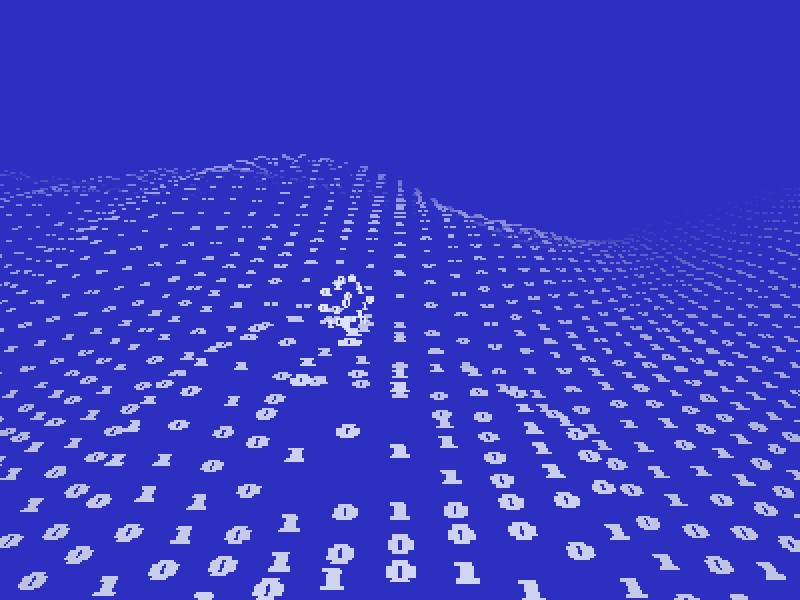
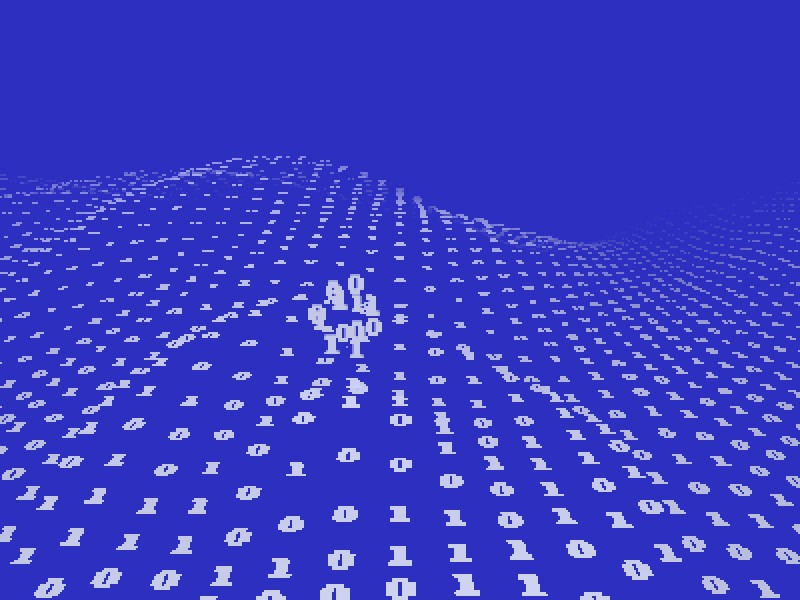
Implemented the following changes:
* In addition to cut, copy we need "delete"
* Right now, "log in" doesn't do anything. I think that the "Log In" button should spawn the first character.
* Move the log-in button to the bottom left corner.
* Liquid Feedback:
   * The ones and zeros in the droplet look brighter than the ones in the ocean, this also causes things to look different. They should be the same color.
   * I think the scale of the ones and zeros are too small and adding to the density effect. Either increase the font size and reduce density or grow the ball.
* Head Throw Feeback:
   * Right now, holding 1/2 and hovering around the mouse doesn't cause the target to move. Let's change this. If the mouse is not moving, keep the WASD positioning and anchoring. If the mouse is moving while 1/2/ is held lets let the destination follow the mouse instead of requireing the user to click down. Ask questions if this doesn't make sense.

Co-authored by Cluade

Changed region(s): [[0.0, 0.24, 1.0, 1.0], [0.8438, 0.99, 0.875, 1.0], [0.4062, 0.84, 0.4375, 0.87]]

diff --git a/public/games/aero/index.html b/public/games/aero/index.html
@@ -38,7 +38,7 @@ body { background: var(--ground); color: var(--ink); font-family: var(--sans); o
 
 .marquee { position: absolute; display: none; border: .16em dashed #d4e0ff; background: rgba(90,130,255,.14); box-sizing: border-box; }
 .word { position: absolute; right: 4%; bottom: 4%; font: 400 2.6em var(--sans); color: #6f6d78; letter-spacing: .01em; }
-#begin { position: absolute; left: 50%; bottom: 14%; transform: translateX(-50%); font: 700 1em var(--pixel); color: #1c1b22; background: #ecebf2; border: 0; padding: .6em 1.4em; cursor: pointer; box-shadow: 0 0 0 2px #1c1b22, 0 0 0 4px #ecebf2; }
+#begin { position: absolute; left: 4%; bottom: 5%; font: 700 1em var(--pixel); color: #1c1b22; background: #ecebf2; border: 0; padding: .6em 1.4em; cursor: pointer; box-shadow: 0 0 0 2px #1c1b22, 0 0 0 4px #ecebf2; }
 .stage.story #begin { display: none; }
 #copyOv, #titleOv { cursor: crosshair; touch-action: none; }
 .ctx.vista { position: absolute; display: none; z-index: 5; width: auto; left: 0; top: 0; padding: .25em; gap: .1em; }
@@ -143,6 +143,7 @@ body { background: var(--ground); color: var(--ink); font-family: var(--sans); o
       <div class="ctx vista" id="ctx">
         <button type="button" data-a="copy"><svg viewBox="0 0 16 16" aria-hidden="true"><path d="M2 1.5h9.5L14.5 4.5V14.5H2z" fill="#5b79c9" stroke="#1d2f66"/><rect x="4.5" y="1.5" width="6" height="4" fill="#dfe7fb" stroke="#1d2f66"/><rect x="8.3" y="2.3" width="1.4" height="2.4" fill="#1d2f66"/><rect x="4" y="8.5" width="8.5" height="6" rx=".5" fill="#f4f6fd" stroke="#1d2f66"/><path d="M5.5 10.5h5.5M5.5 12.3h5.5" stroke="#9aa9d4"/></svg>Copy<kbd>Ctrl C</kbd></button>
         <button type="button" data-a="cut"><svg viewBox="0 0 16 16" aria-hidden="true"><path d="M5.2 9.6 11.8 1.5M10.8 9.6 4.2 1.5" stroke="#44506f" stroke-width="1.6" stroke-linecap="round"/><circle cx="4.6" cy="12" r="2.4" fill="none" stroke="#c0392b" stroke-width="1.6"/><circle cx="11.4" cy="12" r="2.4" fill="none" stroke="#c0392b" stroke-width="1.6"/><circle cx="8" cy="7.2" r=".8" fill="#44506f"/></svg>Cut<kbd>Ctrl X</kbd></button>
+        <button type="button" data-a="delete"><svg viewBox="0 0 16 16" aria-hidden="true"><path d="M3.5 4.5h9l-.8 10H4.3z" fill="#dfe7fb" stroke="#1d2f66"/><path d="M2.5 4.5h11M6 2.5h4v2H6z" fill="none" stroke="#1d2f66"/><path d="M6.4 6.8v5.6M8 6.8v5.6M9.6 6.8v5.6" stroke="#c0392b"/></svg>Delete<kbd>Del</kbd></button>
       </div>
       <button id="begin" type="button">Log in</button>
     </section>
@@ -520,6 +521,17 @@ frame.addEventListener('pointerdown', e => {
 frame.addEventListener('pointermove', e => { Object.assign(AIM, framePx(e)); if (AIM.down) e.stopPropagation(); }, true);
 frame.addEventListener('pointerup', e => { if (!AIM.down) return; Object.assign(AIM, framePx(e)); AIM.down = false; AIM.up = { x: AIM.x, y: AIM.y }; e.stopPropagation(); }, true);
 frame.addEventListener('pointercancel', () => { AIM.down = false; }, true);
+function aimTracker() {
+  let follow = false, ax = 0, ay = 0, wasd = false;
+  return {
+    reset() { follow = false; ax = AIM.x; ay = AIM.y; wasd = !!(KEYS.f || KEYS.b || KEYS.l || KEYS.r); },
+    tick() {
+      const w = !!(KEYS.f || KEYS.b || KEYS.l || KEYS.r); if (w && !wasd) follow = false; wasd = w;
+      if (Math.hypot(AIM.x - ax, AIM.y - ay) > 6) { follow = true; ax = AIM.x; ay = AIM.y; }
+    },
+    get mouse() { return AIM.down || follow; },
+  };
+}
 const aimRay = (cam, p) => { const r = new THREE.Raycaster(); r.setFromCamera(new THREE.Vector2(p.x / frame.clientWidth * 2 - 1, 1 - p.y / frame.clientHeight * 2), cam); return r.ray; };
 const AIM_OK = new THREE.Color(0x7ff0ff), AIM_NO = new THREE.Color(0xff6b9a), AIM_DOTS = 34;
 function aimGuide() {
@@ -634,6 +646,7 @@ function headTravel(R, o) {
 }
 function walker(R, clamp, cam) {
   const vel = new THREE.Vector3(); let facing = R.root.rotation.y, base = null, h = 0, vy = 0, held = false, prev1 = false, prev2 = false, aiming = null;
+  const track = aimTracker();
   const pick = p => {
     const ray = aimRay(cam, p), k = (base - ray.origin.y) / ray.direction.y; if (!(k > 0)) return null;
     const q = ray.origin.clone().addScaledVector(ray.direction, k); clamp(q); q.y = base; return q;
@@ -647,16 +660,19 @@ function walker(R, clamp, cam) {
   });
   const step = (dt, t) => {
     if (base === null) base = R.root.position.y;
-    if (!aiming && !travel.active()) { if (KEYS.roll && !prev1) aiming = 'roll'; else if (KEYS.throw && !prev2) aiming = 'throw'; }
+    if (!aiming && !travel.active()) { if (KEYS.roll && !prev1) aiming = 'roll'; else if (KEYS.throw && !prev2) aiming = 'throw'; if (aiming) track.reset(); }
     prev1 = !!KEYS.roll; prev2 = !!KEYS.throw;
+    if (aiming) track.tick();
     if (aiming && h === 0 && (AIM.up || (!KEYS[aiming] && !AIM.down))) {
-      const k = aiming, dest = AIM.up ? pick(AIM.up) : null; aiming = null; travel.unaim();
+      const k = aiming, dest = AIM.up ? pick(AIM.up) : track.mouse ? pick(AIM) : null; aiming = null; travel.unaim();
       if (dest) { facing = Math.atan2(dest.x - R.root.position.x, dest.z - R.root.position.z); R.root.rotation.y = facing; }
       travel.start(k, facing, dest);
     }
     if (travel.active()) { travel.update(dt); vel.set(0, 0, 0); return; }
     const ix = (KEYS.r ? 1 : 0) - (KEYS.l ? 1 : 0), iz = (KEYS.b ? 1 : 0) - (KEYS.f ? 1 : 0), sp = KEYS.run ? 6.2 : 3.4;
     const w = new THREE.Vector3(ix, 0, iz); if (w.lengthSq()) { w.normalize(); facing = Math.atan2(w.x, w.z); }
+    const aimAt = aiming && track.mouse ? pick(AIM) : null;
+    if (aimAt && !w.lengthSq()) facing = Math.atan2(aimAt.x - R.root.position.x, aimAt.z - R.root.position.z);
     vel.x += (w.x * sp - vel.x) * Math.min(1, dt * 10); vel.z += (w.z * sp - vel.z) * Math.min(1, dt * 10);
     const p = R.root.position; p.x += vel.x * dt; p.z += vel.z * dt; clamp(p);
     let dr = facing - R.root.rotation.y; dr = Math.atan2(Math.sin(dr), Math.cos(dr)); R.root.rotation.y += dr * Math.min(1, dt * 12);
@@ -664,7 +680,7 @@ function walker(R, clamp, cam) {
     held = !!KEYS.j; vy -= 22 * dt; h = Math.max(0, h + vy * dt); if (h === 0 && vy < 0) vy = 0;
     R.root.position.y = base + h;
     animateRunner(R, dt, Math.hypot(vel.x, vel.z), h === 0, t);
-    if (aiming) { R.root.updateMatrixWorld(true); const d = AIM.down ? pick(AIM) : null; if (AIM.down && !d) travel.unaim(); else travel.aim(aiming, facing, t, d); }
+    if (aiming) { R.root.updateMatrixWorld(true); if (track.mouse && !aimAt) travel.unaim(); else travel.aim(aiming, facing, t, aimAt); }
   };
   step.height = () => h;
   step.travelling = () => travel.active();
@@ -716,12 +732,19 @@ function buildCopy() {
   const key = new THREE.DirectionalLight(0xffffff, 1.2); key.position.set(3, 6, 5); key.castShadow = true; key.shadow.mapSize.set(1024, 1024);
   Object.assign(key.shadow.camera, { left: -8, right: 8, top: 8, bottom: -8 }); scene.add(key);
   const floor = new THREE.Mesh(new THREE.PlaneGeometry(40, 40), new THREE.ShadowMaterial({ opacity: .35 })); floor.rotation.x = -Math.PI / 2; floor.receiveShadow = true; scene.add(floor);
-  const lead = makeRunner(); scene.add(lead.root);
-  const crew = [lead], MAXCREW = 16;
+  let lead = null, crew = [];
+  const MAXCREW = 16;
   const clampP = p => { p.x = Math.max(-4.4, Math.min(4.4, p.x)); p.z = Math.max(-2.4, Math.min(2.2, p.z)); };
-  lead.walk = walker(lead, clampP, cam);
-  const mq = $('#marquee'), ctx = $('#ctx'), ov = $('#copyOv');
+  const mq = $('#marquee'), ctx = $('#ctx'), ov = $('#copyOv'), login = $('#begin');
   const A = -1.6, B = 1.9, LOOP = 8.6;
+  let demoT0 = 0;
+  const syncLogin = () => { login.style.display = crew.length ? 'none' : ''; };
+  function spawn() {
+    if (crew.length) return;
+    const r = makeRunner(); r.root.position.set(A, 0, 0); r.root.rotation.y = .2; r.walk = walker(r, clampP, cam); r.flick = now + .5;
+    scene.add(r.root); crew.push(r); lead = r; mode = 'demo'; demoT0 = now; S = null; syncLogin(); chime(660);
+  }
+  login.onclick = () => { if (active) spawn(); };
   const V = (x, y, z) => new THREE.Vector3(x, y, z);
   function box(x) { const a = toFrame(V(x - .66, 2.5, 0), cam), b = toFrame(V(x + .66, -.08, 0), cam); return { x: a.x, y: a.y, w: b.x - a.x, h: b.y - a.y }; }
   const ease = u => u < 0 ? 0 : u > 1 ? 1 : u * u * (3 - 2 * u);
@@ -731,7 +754,7 @@ function buildCopy() {
 
   const hand = new THREE.Vector3(); let S = null, dragging = false;
   function demo(dt, t) {
-    const R = lead, u = t % LOOP, b0 = box(A), dx = box(B).x - b0.x;
+    const R = lead, u = (t - demoT0) % LOOP, b0 = box(A), dx = box(B).x - b0.x;
     R.root.position.set(u >= 4.7 ? B : A, 0, 0); R.root.rotation.y = .2;
     animateRunner(R, dt, 0, true, t);
     let arm = null, crouch = 0;
@@ -751,11 +774,11 @@ function buildCopy() {
     if (u >= 3.2 && u < 3.6) vis = Math.floor(u * 16) % 2 === 0;
     else if (u >= 3.6 && u < 4.7) { vis = false; ox = dx * ease((u - 3.6) / 1.1); }
     else if (u >= 4.7 && u < 5.1) { ox = dx; vis = u > 4.95 || Math.floor(u * 20) % 2 === 0; }
-    R.root.visible = vis;
+    R.root.visible = vis && !(R.flick && t < R.flick && Math.floor(t * 20) % 2);
     if (on) rect(x0 + ox, y0, x1 + ox, y1); else hideRect();
   }
   function resetPose(r) { r.hips.position.y = .98; r.spine.rotation.x = 0; r.shL.rotation.z = -.1; r.shR.rotation.z = .1; r.root.visible = true; }
-  function toPlay() { if (mode === 'play') return; mode = 'play'; resetPose(lead); hideRect(); }
+  function toPlay() { if (mode === 'play') return; mode = 'play'; if (lead) resetPose(lead); hideRect(); }
 
   const ray = new THREE.Raycaster(), floorPlane = new THREE.Plane(V(0, 1, 0), 0);
   const px = e => { const r = frame.getBoundingClientRect(); return { x: (e.clientX - r.left) * frame.clientWidth / r.width, y: (e.clientY - r.top) * frame.clientHeight / r.height }; };
@@ -798,6 +821,7 @@ function buildCopy() {
   }
   function begin(kind) {
     if (!sel.length || carry) return; ctx.classList.remove('on');
+    if (kind === 'delete') { sel.forEach(r => { r.flick = now + .35; r.hideAfter = true; r.dying = true; }); sel = []; clearSel(); chime(300); return; }
     const src = sel.reduce((a, r) => a.add(r.root.position), V(0, 0, 0)).multiplyScalar(1 / sel.length);
     carry = { kind, w: selRect.x1 - selRect.x0, h: selRect.y1 - selRect.y0, from: V(src.x, 0, src.z) };
     if (kind === 'cut') sel.forEach(r => { r.flick = now + .35; r.hideAfter = true; });
@@ -837,6 +861,7 @@ function buildCopy() {
   addEventListener('keydown', e => {
     if (!active) return;
     if ((e.metaKey || e.ctrlKey) && (e.code === 'KeyC' || e.code === 'KeyX') && sel.length && !carry) { begin(e.code === 'KeyC' ? 'copy' : 'cut'); e.preventDefault(); }
+    else if ((e.code === 'Delete' || e.code === 'Backspace') && sel.length && !carry) { begin('delete'); e.preventDefault(); }
     else if (e.code === 'Escape' && (sel.length || carry || drag)) { drag = null; clearSel(); e.preventDefault(); }
     else if (KEYMAP[e.code]) toPlay();
   });
@@ -844,20 +869,21 @@ function buildCopy() {
   return { scene, cam,
     update(dt, t) {
       now = t;
-      if (mode === 'demo') { demo(dt, t); return; }
+      if (mode === 'demo') { if (lead) demo(dt, t); return; }
       for (const r of crew) r.walk(dt, t + (r.seed || 0));
-      if (drag && mouse && lead.root.visible) {
+      if (drag && mouse && lead && lead.root.visible) {
         lead.root.rotation.y += (0 - lead.root.rotation.y) * Math.min(1, dt * 10);
         lead.root.updateMatrixWorld(true);
         const c = toFrame(lead.chest.getWorldPosition(V(0, 0, 0)), cam), right = mouse.x > c.x;
         const sh = right ? lead.shR : lead.shL, el = right ? lead.elR : lead.elL, s = toFrame(sh.getWorldPosition(V(0, 0, 0)), cam);
         sh.rotation.z = Math.atan2(mouse.x - s.x, mouse.y - s.y); sh.rotation.x = 0; el.rotation.x = 0;
         (right ? lead.shL : lead.shR).rotation.z = right ? -.1 : .1;
-      } else { lead.shL.rotation.z = -.1; lead.shR.rotation.z = .1; }
+      } else if (lead) { lead.shL.rotation.z = -.1; lead.shR.rotation.z = .1; }
       for (const r of crew) {
         if (r.flick && t < r.flick) r.root.visible = Math.floor(t * 20) % 2 === 0;
-        else if (r.flick) { r.flick = 0; r.root.visible = !r.hideAfter; }
+        else if (r.flick) { r.flick = 0; r.root.visible = !r.hideAfter; if (r.dying) { r.walk.cancel(); if (r.head.parent !== r.root) r.head.parent.remove(r.head); scene.remove(r.root); r.dead = true; } }
       }
+      if (crew.some(r => r.dead)) { crew = crew.filter(r => !r.dead); lead = crew[0] || null; syncLogin(); }
       if (carry) {
         placeGhosts();
         const pulse = .8 + Math.sin(t * 6) * .2; GHOST.lineSkin.color.setRGB(.9 * pulse, .92 * pulse, pulse); GHOST.line.color.copy(GHOST.lineSkin.color);
@@ -867,7 +893,8 @@ function buildCopy() {
         const a = around(sel.filter(r => r.root.visible)); if (a) { selRect = a; rect(a.x0, a.y0, a.x1, a.y1); if (ctx.classList.contains('on')) placeMenu(); }
       }
     },
-    enter() { active = true; }, leave() { active = false; drag = null; clearSel(); } };
+    login: spawn,
+    enter() { active = true; syncLogin(); if (stage.classList.contains('story')) spawn(); }, leave() { active = false; drag = null; clearSel(); } };
 }
 
 function buildTitle() {
@@ -922,23 +949,31 @@ function buildTitle() {
   const hit = e => { const r = frame.getBoundingClientRect(); ray.setFromCamera(new THREE.Vector2((e.clientX - r.left) / r.width * 2 - 1, 1 - (e.clientY - r.top) / r.height * 2), cam); return ray.ray.intersectPlane(plane, new THREE.Vector3()); };
   let target = null, ri = 0, bursts = [], blobs = [];
   const seaY = (x, z, t) => Math.sin(x * .21 + t * .8) * 1.1 + Math.sin(z * .17 - t * .65) * 1.3 + Math.sin((x - z) * .09 + t * .45) * 1.9 + Math.sin(x * .5 + z * .4 + t * 1.3) * .35;
-  const glyphMat = [0, 1].map(k => { const tx = tex.clone(); tx.needsUpdate = true; tx.repeat.set(.5, 1); tx.offset.set(k * .5, 0); return new THREE.SpriteMaterial({ map: tx, color: lin(0xdfe4ff), toneMapped: false, alphaTest: .5 }); });
+  const glyphTex = [0, 1].map(k => { const tx = tex.clone(); tx.needsUpdate = true; tx.repeat.set(.5, 1); tx.offset.set(k * .5, 0); return tx; });
+  const GLYPH = .62;
   function makeBlob() {
-    const g = new THREE.Group(), n = 20;
+    const g = new THREE.Group(), n = 12;
+    g.mats = glyphTex.map(tx => new THREE.SpriteMaterial({ map: tx, color: new THREE.Color(), toneMapped: false, alphaTest: .5 }));
     for (let i = 0; i < n; i++) {
       const y = 1 - 2 * (i + .5) / n, r = Math.sqrt(1 - y * y), a = i * 2.39996;
-      const sp = new THREE.Sprite(glyphMat[i % 2]); sp.position.set(Math.cos(a) * r * .46, y * .46, Math.sin(a) * r * .46); sp.scale.setScalar(.27); g.add(sp);
+      const sp = new THREE.Sprite(g.mats[i % 2]); sp.position.set(Math.cos(a) * r * .6, y * .6, Math.sin(a) * r * .6); sp.scale.setScalar(GLYPH); g.add(sp);
     }
     g.visible = false; scene.add(g); return g;
   }
   const pool = [makeBlob(), makeBlob(), makeBlob()]; let pi = 0;
-  pool.forEach(g => { g.neck = [0, 1, 2].map(i => { const sp = new THREE.Sprite(glyphMat[i % 2]); sp.visible = false; scene.add(sp); return sp; }); });
+  pool.forEach(g => { g.neck = [0, 1, 2].map(i => { const sp = new THREE.Sprite(g.mats[i % 2]); sp.visible = false; scene.add(sp); return sp; }); });
+  const U = mat.uniforms, _c = new THREE.Color(), _p = new THREE.Vector3();
+  function tint(g, x, y, z, surf) {
+    const d = Math.min(1, Math.max(0, (cam.position.distanceTo(_p.set(x, y, z)) - 6) / 44));
+    _c.copy(U.near.value).lerp(U.far.value, d).multiplyScalar(.78 + surf * .07).lerp(U.bg.value, sm((d - .25) / .7));
+    g.mats.forEach(m => m.color.copy(_c));
+  }
   const colAt = a => a < .825 ? -1.7 * Math.sin(6.28318 * a / 1.1) * (1 + 1.1 * sm((a - .25) / .55)) : 3.57 * (1 - sm((a - .825) / .625));
   function neck(g, x, z, y0, y1, k) {
     g.neck.forEach((sp, i) => { const u = (i + .5) / g.neck.length; sp.visible = k > .02 && y1 > y0;
-      sp.position.set(x, y0 + (y1 - y0) * u, z); sp.scale.setScalar(.3 * k * (.55 + .45 * Math.abs(u - .5) * 2)); });
+      sp.position.set(x, y0 + (y1 - y0) * u, z); sp.scale.setScalar(GLYPH * k * (.55 + .45 * Math.abs(u - .5) * 2)); });
   }
-  document.fonts && document.fonts.load('700 26px Silkscreen').then(() => glyphMat.forEach(m => { m.map.needsUpdate = true; }));
+  document.fonts && document.fonts.load('700 26px Silkscreen').then(() => glyphTex.forEach(tx => { tx.needsUpdate = true; }));
   const ripple = (x, z, w) => mat.uniforms.rip.value[ri++ % 6].set(x, z, mat.uniforms.t.value, w);
   ov.addEventListener('pointermove', e => { target = hit(e); });
   ov.addEventListener('pointerleave', () => { target = null; });
@@ -955,16 +990,16 @@ function buildTitle() {
       const a = t - b.t0, g = b.g, surf = seaY(b.x, b.z, t);
       if (b.phase === 'wait') {
         if (a < .74) continue;
-        b.phase = 'rise'; b.y = surf + colAt(a) - .45; b.vy = 4.8; g.visible = true;
+        b.phase = 'rise'; b.y = surf + colAt(a) - .6; b.vy = 4.8; g.visible = true;
       }
       if (b.phase === 'rise') {
         b.vy -= 16 * dt; b.y += b.vy * dt;
         const grow = sm((a - .74) / .22), stretch = 1 + Math.min(.45, Math.abs(b.vy) * .045);
         g.scale.set(grow / Math.sqrt(stretch), grow * stretch, grow / Math.sqrt(stretch));
-        const top = surf + Math.max(0, colAt(a)), gap = b.y - .4 * grow * stretch - top;
-        neck(g, b.x, b.z, top, b.y - .3 * grow, a < 1.25 ? 1 - sm(gap / 1.1) : 0);
-        if (b.vy < 0 && b.y - .4 <= surf + .9 && b.y - .4 > surf) neck(g, b.x, b.z, surf, b.y - .3, sm(1 - (b.y - .4 - surf) / .9));
-        if (b.vy < 0 && b.y - .4 <= surf) { b.phase = 'merge'; b.m = 0; ripple(b.x, b.z, .6); chime(330); }
+        const top = surf + Math.max(0, colAt(a)), gap = b.y - .6 * grow * stretch - top;
+        neck(g, b.x, b.z, top, b.y - .45 * grow, a < 1.25 ? 1 - sm(gap / 1.1) : 0);
+        if (b.vy < 0 && b.y - .6 <= surf + .9 && b.y - .6 > surf) neck(g, b.x, b.z, surf, b.y - .45, sm(1 - (b.y - .6 - surf) / .9));
+        if (b.vy < 0 && b.y - .6 <= surf) { b.phase = 'merge'; b.m = 0; ripple(b.x, b.z, .6); chime(330); }
       } else if (b.phase === 'merge') {
         b.m += dt; const u = sm(b.m / .3);
         b.y += (surf - .05 - b.y) * Math.min(1, dt * 14);
@@ -972,7 +1007,7 @@ function buildTitle() {
         neck(g, b.x, b.z, surf - .2, b.y, 1 - u);
         if (b.m > .3) { g.visible = false; neck(g, 0, 0, 0, 0, 0); b.phase = 'done'; }
       }
-      g.position.set(b.x, b.y, b.z); g.rotation.y += dt * 1.6;
+      g.position.set(b.x, b.y, b.z); g.rotation.y += dt * 1.6; tint(g, b.x, b.y, b.z, surf);
     }
     blobs = blobs.filter(b => b.phase !== 'done');
   }
@@ -1265,6 +1300,7 @@ function buildClimb() {
   const pos = new THREE.Vector3(0, 0, 1.5), vel = new THREE.Vector3(), RAD = .32, HT = 2.2;
   let active = false, grounded = false, ground = null, checkpoint = boxes[0], facing = Math.PI, coyote = 0, jumpHeld = false, simT = 0;
   let pipe = null, won = false, roll1 = false, throw2 = false, throwTo = null, aiming = null, camInit = false;
+  const track = aimTracker();
   const tOff = new THREE.Vector3(), camLook = new THREE.Vector3();
   const followCam = (dt, want) => {
     if (!camInit) { camLook.copy(want); camInit = true; }
@@ -1364,10 +1400,11 @@ function buildClimb() {
       followCam(dt, travel.active() ? Rr.head.getWorldPosition(new THREE.Vector3()).add(new THREE.Vector3(0, 1.3 - Rr.headY, 0)) : pos.clone().add(new THREE.Vector3(0, 1.3, 0)));
       return;
     }
-    if (!aiming) { if (keys.roll && !roll1) aiming = 'roll'; else if (keys.throw && !throw2) aiming = 'throw'; }
+    if (!aiming) { if (keys.roll && !roll1) aiming = 'roll'; else if (keys.throw && !throw2) aiming = 'throw'; if (aiming) track.reset(); }
     roll1 = !!keys.roll; throw2 = !!keys.throw;
+    if (aiming) track.tick();
     if (aiming && grounded && (AIM.up || (!keys[aiming] && !AIM.down))) {
-      const k = aiming, clicked = !!AIM.up, dest = clicked ? pickFor(k, AIM.up) : null; aiming = null; travel.unaim();
+      const k = aiming, clicked = !!AIM.up || track.mouse, dest = AIM.up ? pickFor(k, AIM.up) : track.mouse ? pickFor(k, AIM) : null; aiming = null; travel.unaim();
       if (!clicked || dest) {
         if (dest) { facing = Math.atan2(dest.x - pos.x, dest.z - pos.z); Rr.root.rotation.y = facing; }
         if (travel.start(k, facing, dest)) { placePopups(); followCam(dt, pos.clone().add(new THREE.Vector3(0, 1.3, 0))); return; }
@@ -1378,6 +1415,8 @@ function buildClimb() {
     const ix = (keys.r ? 1 : 0) - (keys.l ? 1 : 0), iz = (keys.b ? 1 : 0) - (keys.f ? 1 : 0);
     const want = new THREE.Vector3(ix, 0, iz);
     if (want.lengthSq()) { want.normalize().applyAxisAngle(new THREE.Vector3(0, 1, 0), yaw); facing = Math.atan2(want.x, want.z); }
+    const aimAt = aiming && track.mouse ? pickFor(aiming, AIM) : null;
+    if (aimAt && !want.lengthSq()) facing = Math.atan2(aimAt.x - pos.x, aimAt.z - pos.z);
     const accel = grounded ? 40 : 14, speed = 6.2;
     vel.x += (want.x * speed - vel.x) * Math.min(1, accel * dt / speed);
     vel.z += (want.z * speed - vel.z) * Math.min(1, accel * dt / speed);
@@ -1407,7 +1446,7 @@ function buildClimb() {
     Rr.root.position.copy(pos);
     let dr = facing - Rr.root.rotation.y; dr = Math.atan2(Math.sin(dr), Math.cos(dr)); Rr.root.rotation.y += dr * Math.min(1, dt * 12);
     animateRunner(Rr, dt, Math.hypot(vel.x, vel.z), grounded, t);
-    if (aiming) { Rr.root.updateMatrixWorld(true); const d = AIM.down ? pickFor(aiming, AIM) : null; if (AIM.down && !d) travel.unaim(); else travel.aim(aiming, facing, t, d); }
+    if (aiming) { Rr.root.updateMatrixWorld(true); if (track.mouse && !aimAt) travel.unaim(); else travel.aim(aiming, facing, t, aimAt); }
 
     for (const m of mems) {
       if (m.got) continue;
@@ -1467,16 +1506,16 @@ function buildClimb() {
   return { scene, cam, update, reset, enter() { active = true; }, leave() { active = false; for (const k in keys) keys[k] = false; } };
 }
 
-const PLAY_NOTE = 'WASD moves, Space jumps. Tap 1 to roll your head or 2 to throw it; hold 1 / 2 and click (or press and drag) to pick where it goes. Drag to look. Find 4 memories, then roll your head into the pipe.';
+const PLAY_NOTE = 'WASD moves, Space jumps. Tap 1 to roll your head or 2 to throw it. Hold 1 / 2 and move the mouse to aim, then release or click to send it. Drag to look. Find 4 memories, then roll your head into the pipe.';
 const SCENES = [
-  { id: 'copy',    name: 'Copy',          note: 'Drag a box around him, pick Copy or Cut, click to paste. WASD walks everyone, Space jumps. Tap 1 / 2 to roll or throw heads; hold 1 / 2 and click to pick the spot.', ov: 'copyOv', build: buildCopy, walk: true },
+  { id: 'copy',    name: 'Copy',          note: 'Log in to spawn him. Drag a box around him and pick Copy, Cut or Delete; click to paste. WASD walks everyone, Space jumps. Tap 1 / 2 to roll or throw heads; hold 1 / 2 and move the mouse to aim.', ov: 'copyOv', build: buildCopy, walk: true },
   { id: 'title',   name: 'Title',         note: 'Hover the sea to stir it; click to drop a ripple.', ov: 'titleOv', build: buildTitle },
-  { id: 'arrive',  name: 'Arrival',       note: 'WASD walks, Shift runs, Space jumps. Tap 1 to roll your head or 2 to throw it; hold 1 / 2 and click (or press and drag) to pick where it goes.', ov: null, build: buildArrival, walk: true },
+  { id: 'arrive',  name: 'Arrival',       note: 'WASD walks, Shift runs, Space jumps. Tap 1 to roll your head or 2 to throw it. Hold 1 / 2 and move the mouse to aim, then release or click to send it.', ov: null, build: buildArrival, walk: true },
   { id: 'open',    name: 'Cold open',     note: 'Text cards. Click or Enter skips, Esc goes to the game.', ov: 'cards', lines: ['Did anyone ever log out?', 'Or did we just stop coming back?'] },
   { id: 'reveal',  name: 'Halcyon',       note: 'Character reveal, low-poly and turning.', ov: 'revealOv', build: buildReveal },
   { id: 'lights',  name: 'Lights on',     note: 'Text card.', ov: 'cards', lines: ['Then who kept the lights on?'] },
   { id: 'tape',    name: 'The lake',      note: 'Found tape: square, blown out, pixel subtitle.', ov: 'tapeOv', build: buildTape },
-  { id: 'player',  name: 'Memory player', note: 'WASD walks, Shift runs, Space jumps. Tap 1 to roll your head or 2 to throw it; hold 1 / 2 and click (or press and drag) to pick where it goes.', ov: 'playerOv', build: buildPlayer, walk: true },
+  { id: 'player',  name: 'Memory player', note: 'WASD walks, Shift runs, Space jumps. Tap 1 to roll your head or 2 to throw it. Hold 1 / 2 and move the mouse to aim, then release or click to send it.', ov: 'playerOv', build: buildPlayer, walk: true },
   { id: 'goup',    name: 'Go back up',    note: 'Text card.', ov: 'cards', lines: ['Will you go back up?'] },
   { id: 'climb',   name: 'The climb',     note: PLAY_NOTE, ov: 'playOv', build: buildClimb, walk: true },
 ];
@@ -1528,7 +1567,6 @@ sel.addEventListener('change', () => jumpTo(+sel.value));
 $('#prevBtn').onclick = () => jumpTo(cur - 1);
 $('#nextBtn').onclick = () => jumpTo(cur + 1);
 $('#newBtn').onclick = newGame;
-$('#begin').onclick = newGame;
 $('#skipBtn').onclick = skipToGame;
 $('#cards').addEventListener('click', () => { advance = true; });
 $('#again').onclick = () => { get(CLIMB).reset(); jumpTo(CLIMB); };

diff --git a/studio/index.html b/studio/index.html
@@ -127,6 +127,7 @@ function gameShot(opts) { return Object.assign({ kind: 'game' }, opts); }
 async function enterScene(i) {
   G.__aeroJump(i); await sleep(1200);
   const S = G.__aeroActive();
+  if (i === 0 && S.login) S.login();
   if (!S.__wrapped) { S.__u = S.update; S.update = (dt, t) => { if (G.__studio) S.__u(dt, t); }; S.__wrapped = true; }
   return S;
 }

diff --git a/README.md b/README.md
@@ -10,8 +10,8 @@ The bar under the game steps through each scene. You can also jump straight to o
 
 | | |
 |---|---|
-| ![Copy](docs/copy_demo.jpg) | ![Copying the crew](docs/copy_crew.jpg) |
-| **1. Copy.** Drag a box around the runner, pick Copy or Cut, and click to paste. The dashed box follows the selection as it moves and resizes with depth. | Copies walk together. While you carry a copy, grey ghosts preview where it will land. |
+| ![Copy, before logging in](docs/copy_login.jpg) | ![Copying the crew](docs/copy_crew.jpg) |
+| **1. Copy.** The room starts empty; Log in spawns the runner. Drag a box around him and pick Copy, Cut or Delete. The dashed box follows the selection as it moves and resizes with depth. | Copies walk together. While you carry a copy, grey ghosts preview where it will land. Delete everyone and Log in comes back. |
 | ![Title](docs/title.jpg) | ![A drop leaving the sea](docs/title_drop.jpg) |
 | **2. Title.** Hover to stir the sea of digits. | Click to drop a ripple. The centre sinks, rebounds into a peak, and throws off a blob of digits. The blob falls back in and sends out one smaller ripple. |
 | ![Arrival, sunset and daffodil](docs/arrival_1.jpg) | ![Arrival, hands and penguin](docs/arrival_2.jpg) |
@@ -25,7 +25,7 @@ The bar under the game steps through each scene. You can also jump straight to o
 | ![Memory player](docs/memory_player.jpg) | ![The climb](docs/climb.jpg) |
 | **8. Memory player.** A draggable media player window over the level. | **10. The climb.** Pillars fading into white, four memories to collect, and a pipe home. |
 | ![Aiming a head throw](docs/climb_aim.jpg) | ![Rolling into the pipe](docs/climb_pipe_in.jpg) |
-| Tap **2** to throw your head to the next platform, or hold 2 and click a platform to throw it there. Press and drag while holding the key to preview; a pink path means the head would fall. | The pipe lies on the top plaza. Once all four memories are found, roll your head into it with **1**. |
+| Tap **2** to throw your head to the next platform. Hold 2 and move the mouse to aim at a spot, then release the key or click; a pink path means the head would fall. | The pipe lies on the top plaza. Once all four memories are found, roll your head into it with **1**. |
 
 ## Controls
 
@@ -35,9 +35,9 @@ The bar under the game steps through each scene. You can also jump straight to o
 | Space | Jump |
 | 1 | Roll your head forward |
 | 2 | Throw your head to the next platform |
-| Hold 1 / 2 + click | Roll or throw your head to the clicked spot |
-| Hold 1 / 2 + press and drag | Preview the path, release the mouse to send it |
-| Drag (Copy scene) | Select, then Copy / Cut and click to paste. Cmd/Ctrl+C and Cmd/Ctrl+X also work. |
+| Hold 1 / 2 + move the mouse | Aim at the spot under the cursor; release the key (or click) to send the head there |
+| Hold 1 / 2 + WASD | Go back to aiming along your facing |
+| Drag (Copy scene) | Select, then Copy / Cut / Delete and click to paste. Cmd/Ctrl+C, Cmd/Ctrl+X and Delete also work. |
 | Drag (Climb) | Look around |
 
 ## Layout
